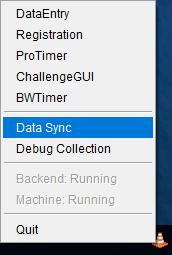
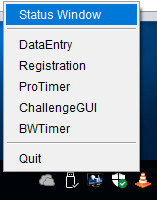
enough docs to start with

diff --git a/docs/sync.md b/docs/sync.md
@@ -1,38 +1,58 @@
----
-title: Data Synchronization
-layout: default 
----
+# Status and Synchronization
 
-
-You can open the status window by right clicking on the Tray icon and selecting **Status Window**.
+When main scorekeeper application is run, a status window will appear.  The window can be closed without stopping
+the application.  To reopen the window, select **Status Window** from the tray menu.
 
 ![ContextMenu](images/syncmenu.png)
 
-The tables in the windows contains the lists of active hosts and inactive hosts.  The first host in the active
-table is always the local machine.  Other active hosts will include those discovered locally that we are still
-in contact with and any remote hosts that are processing a sync request from the user.
+A status window will open that looks like:
+
+![DataSyncWindow](images/syncwindow.png)
+
+### Status
+The boxes at the top indicates the status of the backend.  Green is good, red means something is wrong.  The machine
+box lists the status of the docker-machine virtual machine.  The backend status lists the status of the database,
+web server and sync server. When actively syncing a series, you will see the sync icon ![syncicon](images/syncing.png) 
+along with some status text.
+
+### Active/Inactive
+The tables in the window contain the lists of active hosts and inactive hosts. The first host in the active
+table is always the local machine.  Active hosts will include those discovered locally that we are still
+in contact with and any remote hosts that are processing a sync request from the user.  Inactive hosts include
+remote servers that we are finished syncing with or local servers that we cannot connect to anymore (off network).
 
 Any red boxes in the status table indicate something of potential interest.  A red time value indicates that the
 time is far enough in the past that we may no longer be in sync but we do not know for sure.  A red value in one
 of the series columns indicates that an error occured or that the remote version of the series is in a different
-state from the local machine.  The seemingly random data under the series columns are actually part of a hash
-calculation of the series contents.
+state from the local machine.  You can hover the mouse over the cell to potentially sure more information about
+the error.  The seemingly random data under the series columns are actually part of a hash calculation of the
+series contents.  If they are the same, the data is in sync.
 
-![DataSyncWindow](images/datasync.png)
+### Forcing a sync now
+By default, we check sync status with other local machine every 60 seconds.  If the computer was just brough onto the network
+and you don't want to wait, you can click **Sync All Active Now** which tells the sync server to schedule a sync check now.
+
 
 # With scorekeeper.wwscc.org
 
 ## Downloading a New Series
-1. Click **Download New Series From scorekeeper.wwscc.org**
-1. Remote series that are not present on the machine will be loaded, after which you can select one
-1. Enter the password for the series and click **Verify Password**
-1. If the password is correct, the button will change to **Download**, otherwise try the password again
-1. Click **Download** and let it finish
+1. Click **Download New Series From ...** and then select **scorekeeper.wwscc.org**.  As you can see, you can also download
+   a new series from a local machine that has already downloaded the series earlier.
+
+![DownloadFrom](images/downloadfrom.png)
+
+2. Remote series that are not present on the machine will be loaded, after which you can select one
+3. Enter the password for the series and click **Verify Password**
+
+![Password](images/password.png)
+
+4. If the password is correct, the button will change to **Download**, otherwise try the password again
+5. Click **Download** and let it finish
 
 ## Syncing A Series
-1. Click **Sync With scorekeeper.wwscc.org**
+1. Click **Sync With ..** and then select **scorekeeper.wwscc.org**.  This is very similar to the sync all active button but
+   you can select a non-active remote host.  In this case, there are no local servers we are in contact with, so only
+   scorekeeper.wwscc.org shows up.
 
-
-# With Other Hosts
-
+![SyncWith](images/syncwith.png)
 

diff --git a/docs/changes.md b/docs/changes.md
@@ -1,5 +1,4 @@
-
-# Changes from the old verison
+# Changes from Version 1
 
 1. **Each machine uses a real database server (Postgresql)** that contains all the downloaded series data rather than
    individual SQLite files.

diff --git a/docs/install.md b/docs/install.md
@@ -1,3 +1,5 @@
+# Install/First Use
+
 ## Requirements
 1. A Docker environment
     * implies a 64bit OS and a processsor that support virtualization (most recent processors do)
